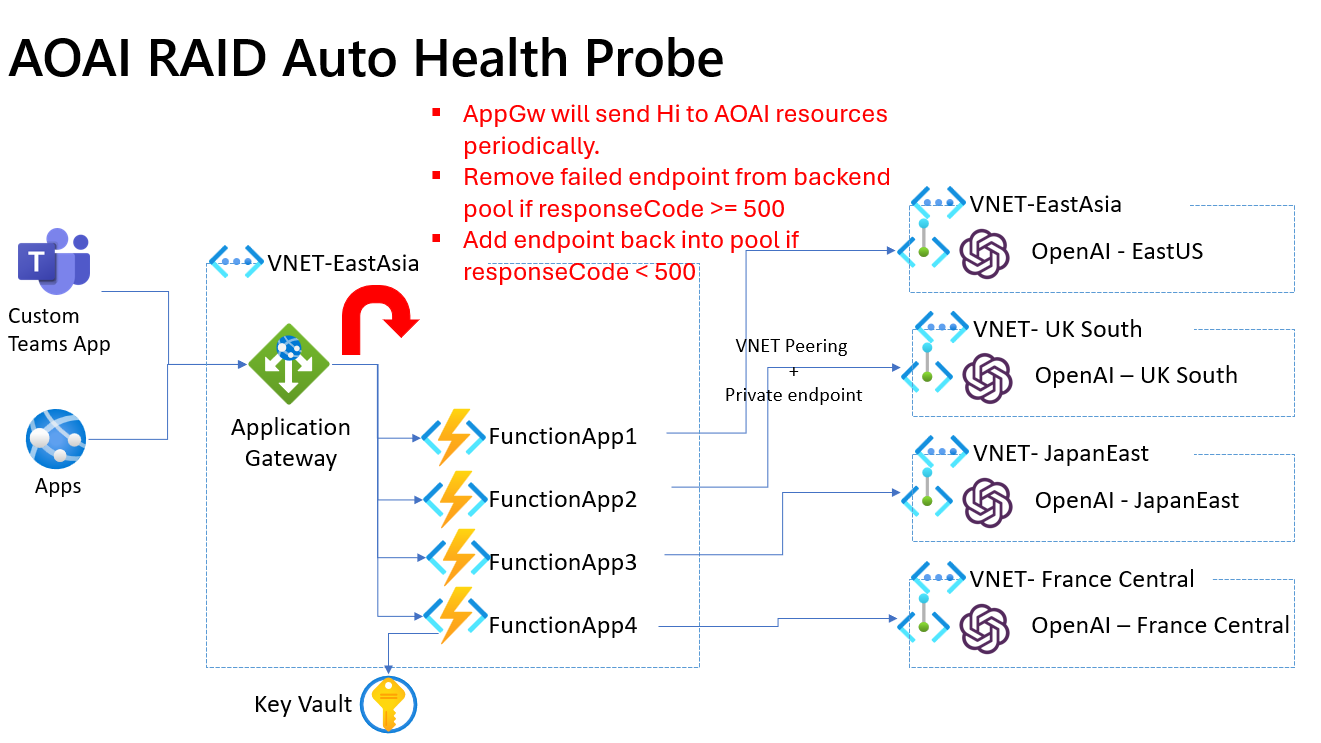
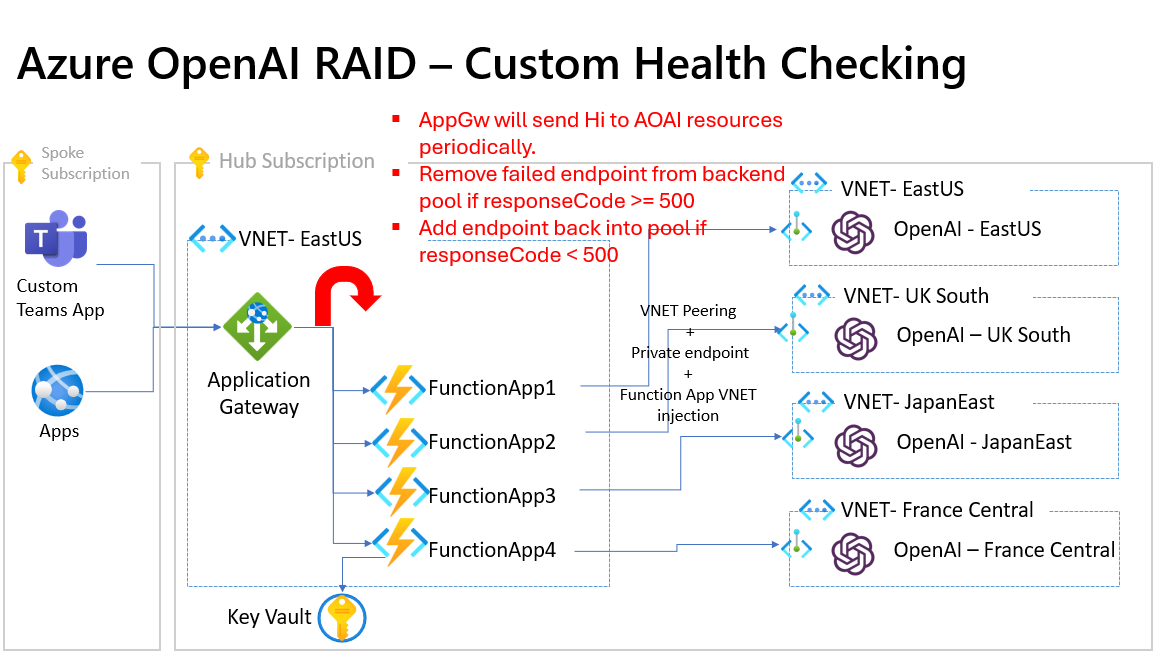
hub-spoke ref arch

diff --git a/README.md b/README.md
@@ -220,10 +220,11 @@ Lastly, when deploying this advanced health checking capability, it is important
 ## Go for Production To-Do List
 ![refarch](https://github.com/denlai-mshk/aoai-fwdproxy-funcapp/blob/main/screenshots/refarch.png)
 
+- It is highly recommended to adopt the Hub-Spoke best practices in order to centralize all AOAI resources within the hub subscription. This approach provides several benefits, including centralized Responsible AI governance and enhanced usage control such as user quotas. By centralizing the AOAI resources, you can effectively manage and monitor the AI capabilities in a more streamlined and controlled manner. This ensures that responsible AI practices are implemented consistently across the organization and allows for better control over resource allocation and usage.Responsible AI governance as well as usage control like user quotas. 
 - Consider provisioning the Function App in VNET Injection mode for security. 
 - Connect the AppGW and Function App within the same VNET. 
 - Add a private endpoint to the AOAI Resources in your VNET.
-- Instead of using the AppGW public IP for the endpoint, consider installing a public CA certificate with domain name service.
-- Secure the AOAI endpoint and API key in the Azure Key Vault.
+- If public access is required for the AppGW, it is recommended to install a public CA certificate with domain name service. This ensures secure communication between the client and the AppGW. On the other hand, if public access is not necessary, it is advisable to bind the listener with the private IP of the AppGW. This configuration enforces that all incoming traffic is transmitted within the private VNET, enhancing the security and privacy of the network communication.
+- Secure the AOAI endpoint and API key in the Azure Key Vault or use AAD RBAC instead.
 - Consider provisioning the CosmosDB for abuse auditing.
 - Consider provisioning the [Azure AI Content Safety](https://learn.microsoft.com/en-us/azure/cognitive-services/content-safety/overview) for content filtering and detection.
